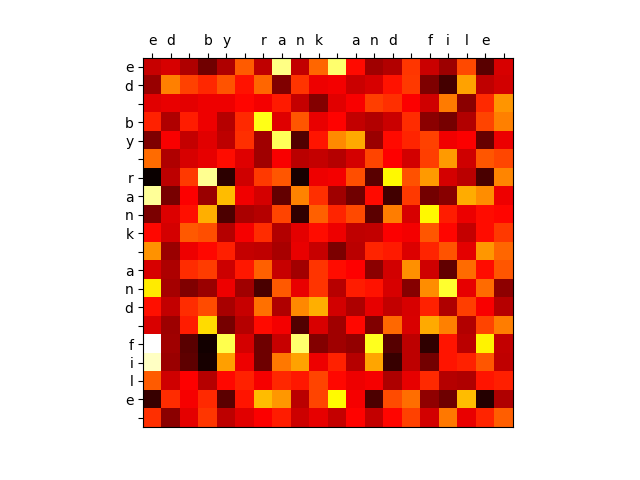
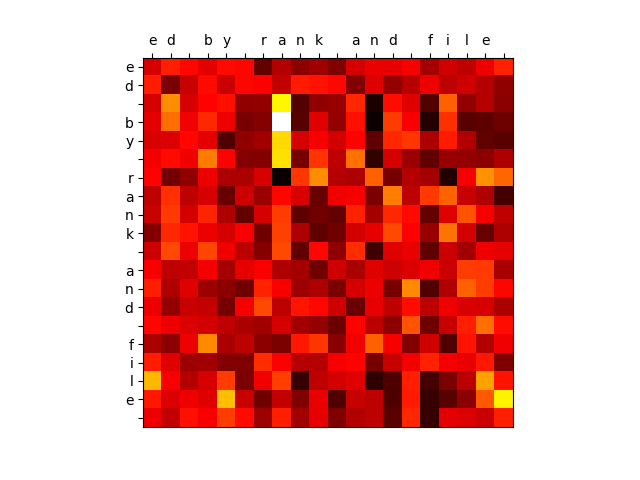
show d_model, d_internal, num_layers

diff --git a/A2/A2p12/transformer.py b/A2/A2p12/transformer.py
@@ -152,7 +152,11 @@ class PositionalEncoding(nn.Module):
 
 # This is a skeleton for train_classifier: you can implement this however you want
 def train_classifier(args, train, dev):
-    model = Transformer(vocab_size=27, num_positions=20, d_model=80, d_internal=100, num_classes=3, num_layers=2)
+    d_model = 20
+    d_internal = 100
+    num_layers = 2
+    print("Training model with d_model=%i, d_internal=%i, num_layers=%i" % (d_model, d_internal, num_layers))
+    model = Transformer(vocab_size=27, num_positions=20, d_model=d_model, d_internal=d_internal, num_classes=3, num_layers=num_layers)
     model.zero_grad()
     model.train()
     optimizer = optim.Adam(model.parameters(), lr=1e-4)
